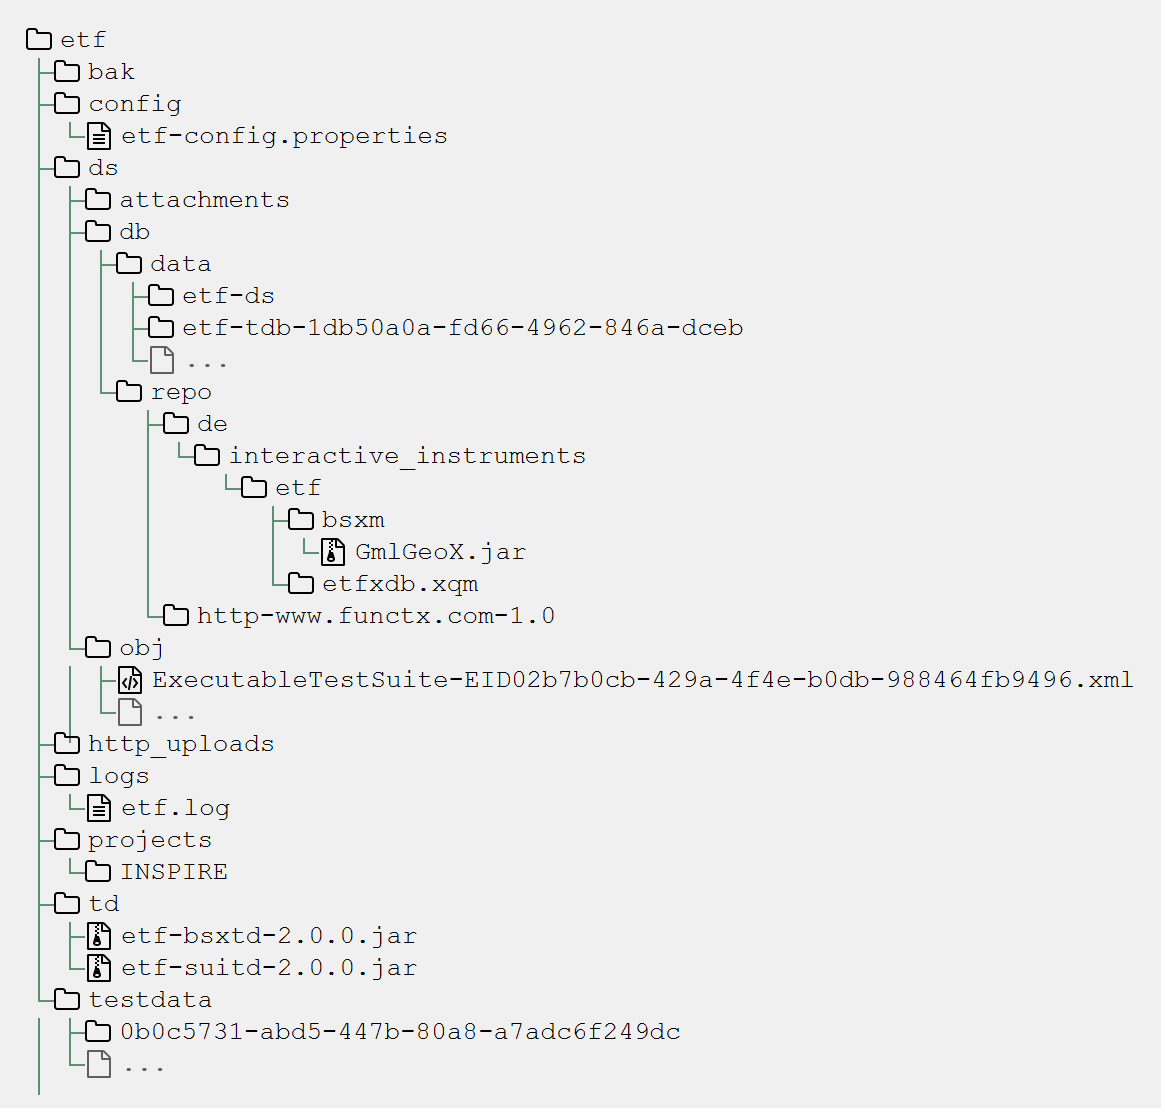
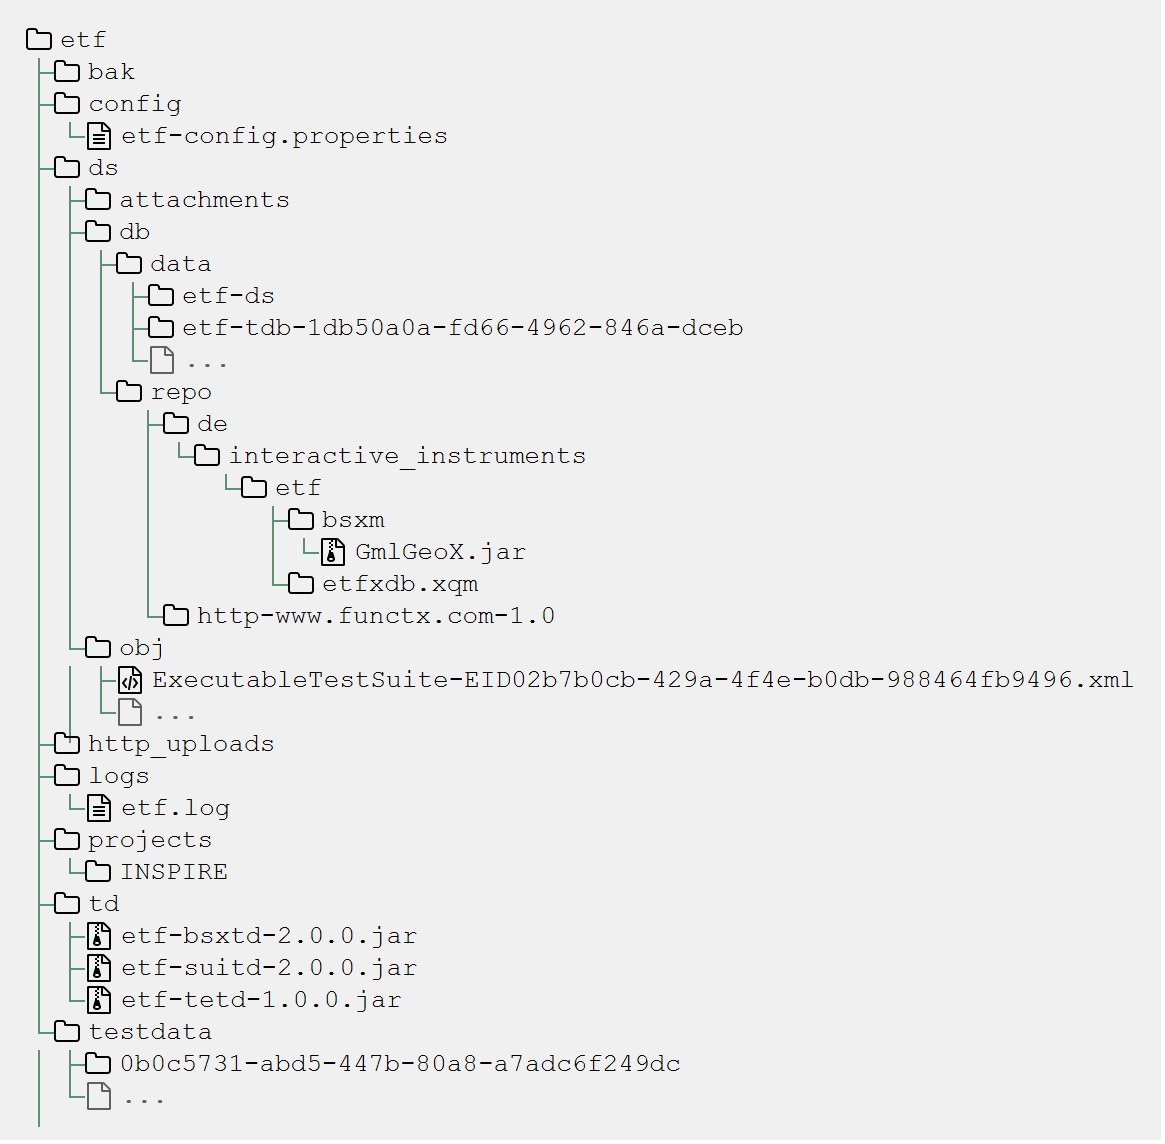
Documentation

Changed region(s): [[0.0309, 0.0306, 0.9888, 0.9784], [0.2781, 0.0917, 0.3708, 0.1529]]

diff --git a/docs/Developer_manuals/Building.html b/docs/Developer_manuals/Building.html
@@ -23,6 +23,7 @@
 <li><a href="#_compiling_the_source_code">Compiling the source code</a></li>
 <li><a href="#_running_the_web_application">Running the web application</a></li>
 <li><a href="#_building_other_etf_components">Building other ETF components</a></li>
+<li><a href="#_test_driver_development">Test driver development</a></li>
 <li><a href="#_faq">FAQ</a></li>
 </ul>
 </li>
@@ -114,6 +115,11 @@ Testing framework for spatial data and services</span></p></td>
 <td class="tableblock halign-left valign-top"><p class="tableblock">2017-06-21</p></td>
 <td class="tableblock halign-left valign-top"><p class="tableblock">Clemens Portele</p></td>
 <td class="tableblock halign-left valign-top"><p class="tableblock">editorial updates</p></td>
+</tr>
+<tr>
+<td class="tableblock halign-left valign-top"><p class="tableblock">2017-07-12</p></td>
+<td class="tableblock halign-left valign-top"><p class="tableblock">Jon Herrmann</p></td>
+<td class="tableblock halign-left valign-top"><p class="tableblock">Test driver development section</p></td>
 </tr>
 </tbody>
 </table>
@@ -288,6 +294,34 @@ gradle <strong>install</strong> command and be used by the etf-webapp component 
 </div>
 </div>
 <div class="sect1">
+<h2 id="_test_driver_development">Test driver development</h2>
+<div class="sectionbody">
+<div class="paragraph">
+<p>Test drivers are released with the ETF web application. There are integrated
+into the WAR file and extracted into the test driver directory at start up,
+depending on the version numbers of existing test drivers. If the integrated
+test drivers have a higher version number then the test drivers in the test
+driver directory, the old test drivers are deleted and the new test drivers
+are deployed and used.</p>
+</div>
+<div class="paragraph">
+<p>This mechanism allows to update test drivers without redeploying the whole web
+application.</p>
+</div>
+<div class="paragraph">
+<p>If you are either developing and testing a test driver without changing the
+version number or you are using a newer snapshot test driver, make sure the
+latest test driver is deployed into the test driver directory.</p>
+</div>
+<div class="paragraph">
+<p>This means that you need to manually overwrite the test driver or use the
+<code>gradle install</code> task in the test driver project. To correctly run the
+install task, you need to set the 'etf.td.deployment.dir' gradle property,
+for example in the settings.gradle or in the system gradle.properties.</p>
+</div>
+</div>
+</div>
+<div class="sect1">
 <h2 id="_faq">FAQ</h2>
 <div class="sectionbody">
 <div class="paragraph">
@@ -323,7 +357,7 @@ Build-JDK: 1.8.0_102</pre>
 </div>
 <div id="footer">
 <div id="footer-text">
-Last updated 2017-06-26 20:25:44 CEST
+Last updated 2017-07-12 16:57:12 CEST
 </div>
 </div>
 </body>

diff --git a/src/main/webapp/etf.html b/src/main/webapp/etf.html
@@ -10,12 +10,17 @@
     <meta http-equiv="X-UA-Compatible" content="IE=Edge"/>
     <meta name="viewport" content="width=device-width, initial-scale=1.0"/>
     <meta http-equiv="Content-Type" content="text/html; charset=UTF-8" />
-    <meta name="description" content="ETF web application for testing geo network services and data" />
+    <meta name="description" content="ETF web application for testing spatial data and services" />
     <meta name="keywords" lang="en" content="geo, validation, wfs, wms, metadata, dataset, testsuite, etf" />
     <meta name="keywords" lang="de" content="Prüftool, inspire, wfs, wms, etf" />
     <meta name="distribution" content="IU"/>
     <meta name="web_author" content="interactive instruments GmbH"/>
 
+    <meta property="og:title" th:content="${T(de.interactive_instruments.etf.webapp.helpers.View).brandingText}" />
+    <meta property="og:image" content="http://etf-validator.net/assets/img/ETF_logo.png" />
+    <meta property="og:type" content="website" />
+    <meta property="og:description" content="ETF is an open source testing framework for validating spatial data,
+        metadata and web services in Spatial Data Infrastructures" />
 
     <title th:text="${T(de.interactive_instruments.etf.webapp.helpers.View).brandingText}">BRANDING TEXT</title>
 

diff --git a/docs/Admin_manuals/index.html b/docs/Admin_manuals/index.html
@@ -621,7 +621,9 @@ subfolder '~/.etf'.</p>
 <div class="sect2">
 <h3 id="_etf_data_directory_structure">3.3. ETF data directory structure</h3>
 <div class="paragraph">
-<p>This chapter describes the strucutre of the ETF data directory.</p>
+<p>This chapter describes the structure of the ETF data directory. The following
+figure shows an example structure, identifiers or version numbers may be
+different in your setup.</p>
 </div>
 <div class="admonitionblock note">
 <table>
@@ -678,7 +680,7 @@ log file can be found in the ETF data directory below the <strong>logs</strong> 
 They are automatically (re-)loaded after a short time.</p>
 </li>
 <li>
-<p>estdrivers are loaded from the <strong>td</strong> directory on ETF startup.</p>
+<p>Testdrivers are loaded from the <strong>td</strong> directory on ETF startup.</p>
 </li>
 <li>
 <p>The <strong>testdata</strong> directory contains uploaded files. XML files are
